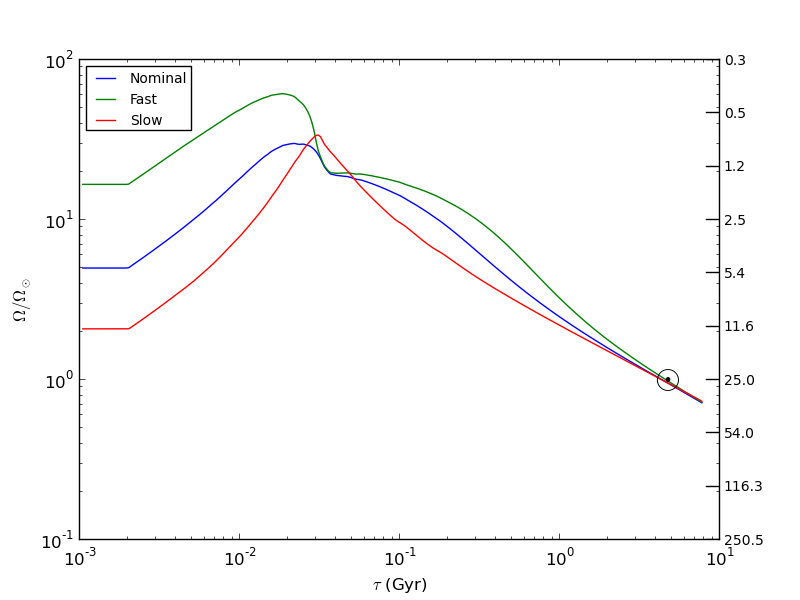
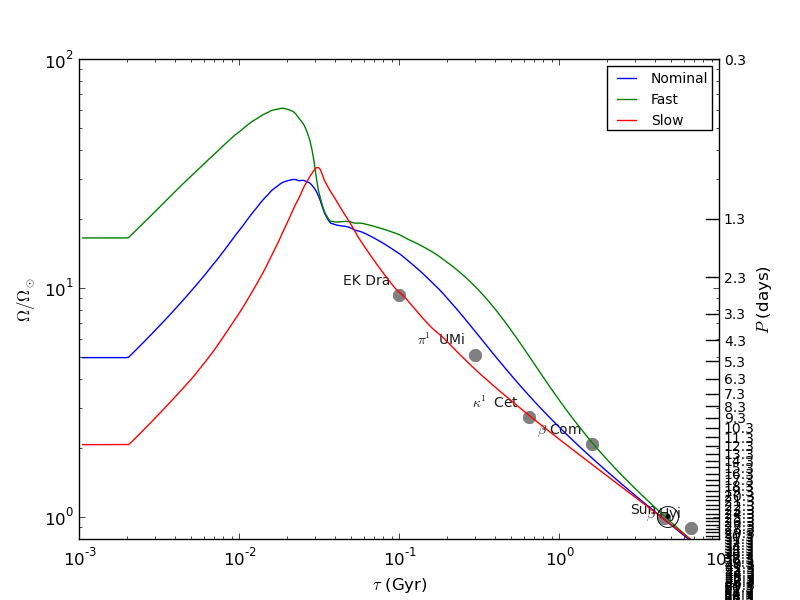
Commit

diff --git a/BHMfigures.py b/BHMfigures.py
@@ -89,16 +89,33 @@ def CompareLuminositiesMassLoss():
     ax.set_xlabel(r"$\tau$ (Gyr)")
     ax.set_ylabel("$\Omega/\Omega_\odot$")
 
+    #DATA FOR OTHER STARS
+    for star_name in ROTAGE_STARS.keys():
+        staro=ROTAGE_STARS[star_name]
+        tau=staro["tau"]
+        Prot=staro["Prot"]
+        ax.plot([tau],[2*PI/(Prot*DAY)/OMEGASUN],'o',markersize=10,markeredgecolor='none',color=cm.gray(0.5),zorder=-10)
+        ax.text(tau,2*PI/(Prot*DAY)/OMEGASUN,star_name,transform=offSet(-10,staro["up"]),horizontalalignment="right",color=cm.gray(0.1),zorder=-10,fontsize=10)
+
     tmin,tmax=ax.get_xlim()
     wmin,wmax=ax.get_ylim()
-    Pmin=2*PI/(wmax*OMEGASUN)/DAY
-    Pmax=2*PI/(wmin*OMEGASUN)/DAY
-    for P in np.logspace(np.log10(Pmin),np.log10(Pmax),10):
+    Pmin=1.0*(2*PI/(wmax*OMEGASUN)/DAY)
+    Pmax=1.0*(2*PI/(wmin*OMEGASUN)/DAY)
+    #Pvec=np.logspace(np.log10(Pmin),np.log10(Pmax),10)
+    Pvec=np.arange(Pmin,Pmax,1.0)
+    i=-1
+    for P in Pvec:
+        i+=1
         if P>Pmax:break
+        if (i%3)!=0:continue
         w=2*PI/(P*DAY)/OMEGASUN
         ax.axhline(w,xmin=0.98,xmax=1.00,color='k')
         ax.text(tmax,w,"%.1f"%P,transform=offSet(5,0),verticalalignment='center',horizontalalignment='left',fontsize=10)
 
+    ax.text(1.07,0.5,r"$P$ (days)",rotation=90,verticalalignment='center',horizontalalignment='center',transform=ax.transAxes)
+
+    ymin,ymax=ax.get_ylim()
+    ax.set_ylim((0.8,ymax))
     fig.savefig(DATADIR+"rot.png")
 
     #############################################################
@@ -123,14 +140,6 @@ def CompareLuminositiesMassLoss():
     ax.set_xscale("log")
     ax.set_yscale("log")
     ax.legend(loc="best",prop=dict(size=10))
-
-    #DATA FOR OTHER STARS
-    for star_name in ROTAGE_STARS.keys():
-        staro=ROTAGE_STARS[star_name]
-        tau=staro["tau"]
-        Prot=staro["Prot"]
-        ax.plot([tau],[2*PI/(Prot*DAY)/OMEGASUN],'o',markersize=10,markeredgecolor='none',color=cm.gray(0.5),zorder=-10)
-        ax.text(tau,2*PI/(Prot*DAY)/OMEGASUN,star_name,transform=offSet(-10,staro["up"]),horizontalalignment="right",color=cm.gray(0.1),zorder=-10,fontsize=10)
 
     ax.text(4.56,1.0,r"$\odot$",
             horizontalalignment='center',verticalalignment='center',
